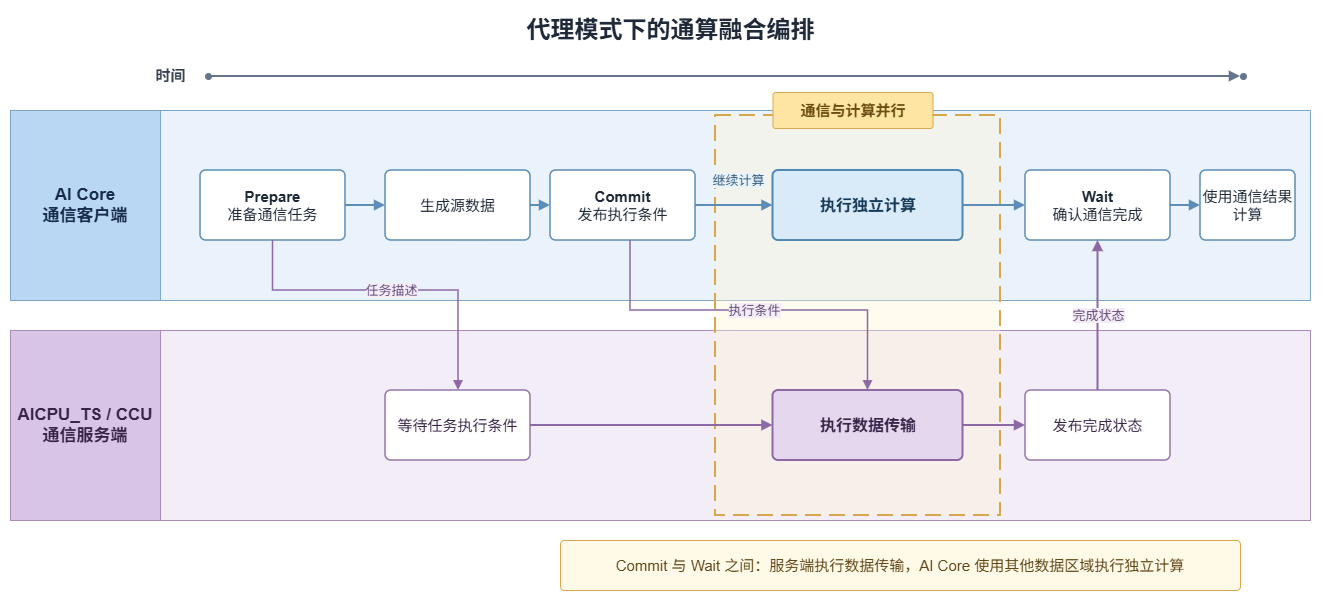
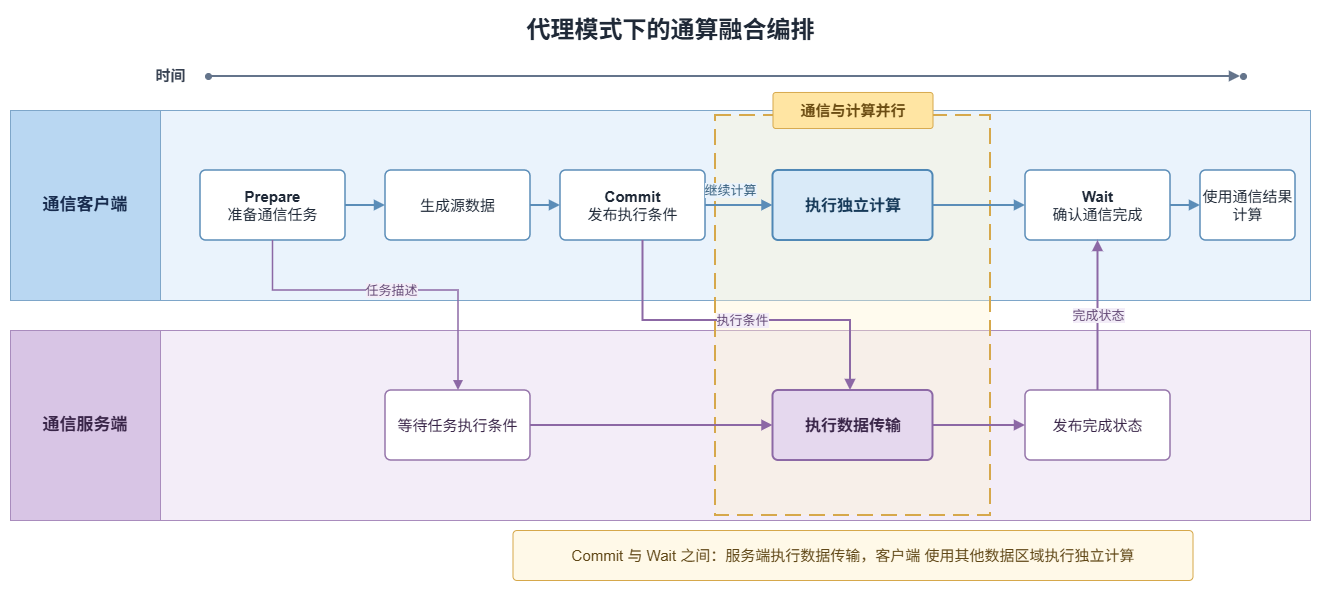
fix review

diff --git a/docs/zh/Programming-Model/execution_model.md b/docs/zh/Programming-Model/execution_model.md
@@ -4,15 +4,22 @@
 
 # 代理模式
 
-在代理模式下，当前算子 Kernel 通过 AI Core 通信客户端提交请求，通信服务端根据请求完成本端与对端之间的数据传输，并将完成状态返回给 AI Core。服务端类型以及通信请求的传递方式参见[通信模型](./communication_model.md)。
+代理模式将通信任务的准备与数据传输分离。客户端在当前算子 Kernel 中准备并提交通信请求，服务端在独立执行单元上完成本端与对端之间的数据传输，并向客户端反馈完成状态。
 
-Host 侧在 Kernel 启动前准备通信资源和通信上下文，并启动 AI Core 计算任务和通信服务端。Kernel 执行期间，AI Core 客户端负责描述通信任务、确定任务何时可以执行以及等待任务完成；通信服务端负责取得任务参数、展开通信算法、通过 Channel 执行通信操作并反馈完成状态。
+当前客户端支持 AI Core，服务端支持 AICPU_TS 和 CCU。不同服务端使用的代理介质如下：
 
-代理执行模型包含以下两类服务端：
+| 客户端 | 服务端 | 任务参数传递 | 执行条件和完成状态传递 |
+| --- | --- | --- | --- |
+| AI Core | AICPU_TS | 消息区 | 消息区 |
+| AI Core | CCU | CCU 通用寄存器 | CCU 同步寄存器 |
 
-- AICPU_TS 服务端：AI Core 与 AICPU_TS 通过消息区传递任务参数、任务发布状态和完成状态。
-- CCU 服务端：AI Core 与 CCU 通过 CCU 通用寄存器传递任务参数，通过同步寄存器传递任务启动和完成状态。
+两种服务端遵循相同的任务准备、提交、执行和完成过程。一次代理通信从整体上包括以下过程：
 
+1. **运行准备**：Host 准备通信资源和通信上下文，并启动客户端 Kernel 和服务端。
+2. **任务提交**：客户端描述通信操作、数据位置和数据量，在源数据就绪后，通过代理介质向服务端传递任务参数和执行条件。
+3. **数据传输与完成**：服务端取得任务参数，展开通信算法，并通过 Channel 完成本端与对端之间的数据传输。通信完成后，服务端将完成状态反馈给客户端。任务提交后，客户端可以继续执行与本轮通信没有数据依赖的计算，并在需要使用通信结果时等待任务完成。
+
+服务端类型以及通信请求的传递方式参见[通信模型](./communication_model.md)。
 
 ## 代理执行机制
 
@@ -24,25 +31,25 @@ Host 侧在 Kernel 启动前准备通信资源和通信上下文，并启动 AI 
 
 | 参与方 | 职责 |
 | --- | --- |
-| Host | 申请通信资源，准备通信上下文和通信算法 Tiling，启动通信服务端和 AI Core Kernel |
-| AI Core 客户端 | 准备通信任务，发布任务执行条件，等待完成状态，并在任务完成后消费结果或复用资源 |
-| 代理介质 | 在客户端与服务端之间传递任务参数、任务启动状态和完成状态 |
-| AICPU_TS 或 CCU 服务端 | 取得并解析任务参数，展开通信算法，通过 Channel 执行通信任务并发布完成状态 |
+| Host | 申请通信资源，准备通信上下文，启动客户端 Kernel 和服务端 |
+| 客户端 | 准备通信任务，发布任务执行条件，等待完成状态，并在任务完成后使用通信结果或复用资源 |
+| 代理介质 | 在客户端与服务端之间传递任务参数、任务执行条件和完成状态 |
+| 服务端 | 取得并解析任务参数，展开通信算法，通过 Channel 执行通信任务并发布完成状态 |
 | Channel | 确定跨 rank 通信对端、通信路径和远端内存访问关系 |
 
-图中展示了 Host 启动通信任务、AI Core 通信客户端提交请求、代理介质传递任务信息和状态，以及通信服务端完成数据传输并返回完成状态的过程。一次通信任务按照以下阶段执行：
+图中展示了 Host 启动通信任务、客户端提交请求、代理介质传递任务信息和状态，以及服务端完成数据传输并返回完成状态的过程。一次通信任务按照以下阶段执行：
 
-1. **初始化**：Host 准备通信资源，启动通信服务端和 AI Core Kernel；AI Core 通信客户端完成本轮执行所需的初始化。
-2. **Prepare**：AI Core 准备通信请求，记录通信操作、数据位置和数据量等信息，形成任务描述。任务在 Commit 阶段进入可执行状态。
-3. **Commit**：AI Core 完成源数据生产以及必要的核间同步后，提交任务执行条件。Commit 表示源数据已经准备完成，通信服务端可以开始处理请求。Commit 完成后，AI Core 继续执行后续计算，通信完成状态由后续的 Wait 确认。
-4. **服务端执行**：通信服务端读取任务描述，根据其中的信息完成本端与对端之间的数据传输。数据传输完成后，通信服务端向 AI Core 返回完成状态。
-5. **Wait**：AI Core 等待并确认任务完成。Wait 完成表示本轮数据传输已经结束，AI Core 可以读取通信结果；相关数据使用结束后，源内存和目的内存可以复用。
-6. **结束**：当前 Kernel 中的通信任务全部完成后，AI Core 通信客户端通知通信服务端结束本轮执行。
+1. **初始化**：Host 准备通信资源，启动客户端 Kernel 和服务端；客户端完成本轮执行所需的初始化。
+2. **Prepare**：客户端准备通信请求，记录通信操作、数据位置和数据量等信息，形成任务描述。任务在 Commit 阶段进入可执行状态。
+3. **Commit**：客户端完成源数据生产以及必要的核间同步后，提交任务执行条件。Commit 表示源数据已经准备完成，服务端可以开始处理请求。Commit 完成后，客户端继续执行后续计算，通信完成状态由后续的 Wait 确认。
+4. **服务端执行**：服务端读取任务描述，根据其中的信息完成本端与对端之间的数据传输。数据传输完成后，服务端向客户端返回完成状态。
+5. **Wait**：客户端等待并确认任务完成。Wait 完成表示本轮数据传输已经结束，客户端可以读取通信结果；相关数据使用结束后，源内存和目的内存可以复用。
+6. **结束**：当前 Kernel 中的通信任务全部完成后，客户端通知服务端结束本轮执行。
 
-代理模式将通信任务交给独立的通信服务端执行，使通信服务端与 AI Core 可以分别执行通信和计算，为通算融合提供了并行执行基础。通算融合算子可以根据数据依赖关系安排通信和计算，一种典型编排如下所示：
+代理模式将通信任务交给独立的服务端执行，使服务端与客户端可以分别执行通信和计算，为通算融合提供了并行执行基础。通算融合算子可以根据数据依赖关系安排通信和计算，一种典型编排如下所示：
 
 **图2** 代理模式下的通算融合编排
 
 ![](./figures/proxy_execution_parallel.png "代理模式下的通算融合编排")
 
-在这种编排中，Commit 发布任务执行条件后，通信服务端开始从源内存读取本轮数据并将通信结果写入目的内存，AI Core 继续使用其他数据区域执行与本轮通信没有数据依赖的计算。AI Core 在首次需要使用通信结果的位置执行 Wait；Wait 完成后，目的内存中的通信结果可以用于后续计算。通过将独立计算安排在 Commit 与 Wait 之间，通算融合算子可以重叠通信与计算的执行时间。
+在这种编排中，Commit 发布任务执行条件后，服务端开始从源内存读取本轮数据并将通信结果写入目的内存，客户端继续使用其他数据区域执行与本轮通信没有数据依赖的计算。客户端在首次需要使用通信结果的位置执行 Wait；Wait 完成后，目的内存中的通信结果可以用于后续计算。通过将独立计算安排在 Commit 与 Wait 之间，通算融合算子可以重叠通信与计算的执行时间。
